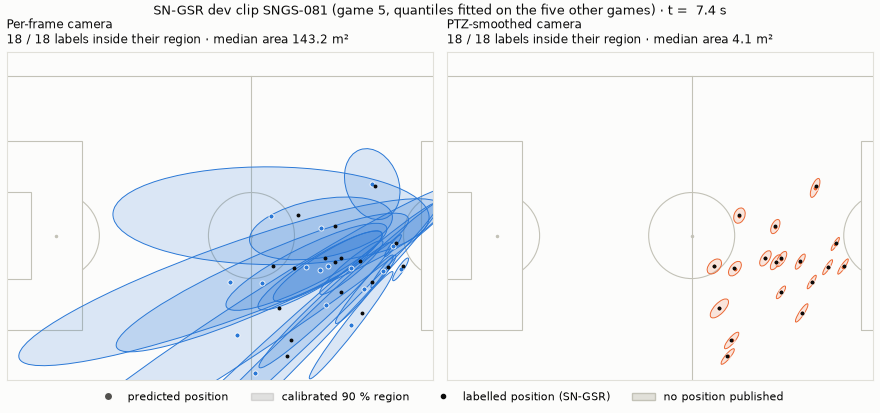
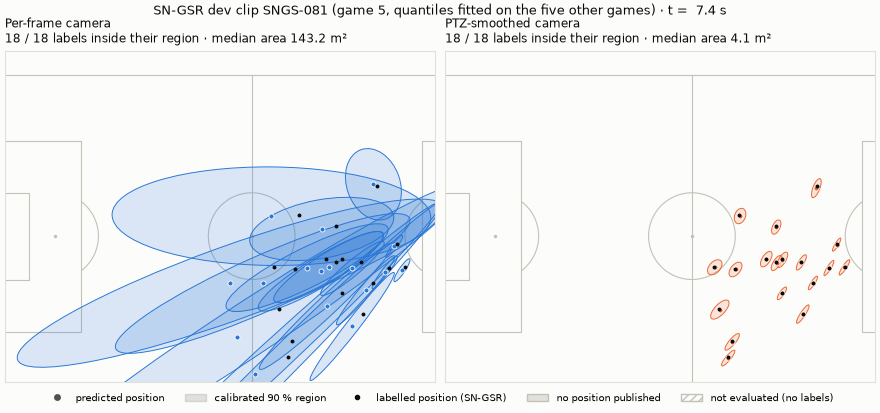
docs(reports): demo without false abstentions, clip-weighted coverage and the new reliability figure
Regenerated from the two dev runs with the fixed scripts. The minimap demo marks its two label-less
frames as not evaluated instead of abstentions (one of them is a published camera 534.9 px off the
annotated lines) and counts 5 and 4 abstentions, 2 frames not evaluated for each camera. The dev figures
report gives coverage with every clip weighted equally next to the pooled coverage (against the line
oracle at 90 %: 91.6 % and 91.3 % against 94.4 %), coverage by clip size, and the per-frame oracle
intervals of m2_logo_dev.md.

Claude-Session: https://claude.ai/code/session_012TVsGDiNG2EdFmFQenqDcG

diff --git a/reports/dev_figures.md b/reports/dev_figures.md
@@ -1,8 +1,10 @@
 # Development figures: coverage at four levels, region size, distance terciles, KPI proxy
 
-`uv run python scripts/make_figures.py --none-run runs/20261031-152537_c3861c7_none --ptz-run runs/20261031-163641_bf28b35_ptz` · commit `97d4689` · per-player tables `runs/20261031-152537_c3861c7_none` (per-frame camera) and `runs/20261031-163641_bf28b35_ptz` (PTZ-smoothed camera), not in git; KPI proxy from `reports/error_process_temporal_dev.json`.
+`uv run python scripts/make_figures.py --none-run runs/20261031-152537_c3861c7_none --ptz-run runs/20261031-163641_bf28b35_ptz` · commit `b69d16b` · per-player tables `runs/20261031-152537_c3861c7_none` (per-frame camera) and `runs/20261031-163641_bf28b35_ptz` (PTZ-smoothed camera), not in git; KPI proxy from `reports/error_process_temporal_dev.json`.
 
-Exploratory numbers on the six SN-GSR dev games (2, 3, 4, 5, 6, 9; frames one in five; ground-truth boxes), not the preregistered test (`docs/preregistration.md`). For every level, each held-out game's conformal quantiles are fitted on the five other games (`eval_dev.logo`: Mondrian bins over metres per pixel at the feet × RANSAC inliers, within each covariance source); intervals resample clips (300 draws).
+Exploratory numbers on the six SN-GSR dev games (2, 3, 4, 5, 6, 9; frames one in five; ground-truth boxes), not the preregistered test (`docs/preregistration.md`). For every level, each held-out game's conformal quantiles are fitted on the five other games (`eval_dev.logo`: Mondrian bins over metres per pixel at the feet × RANSAC inliers, within each covariance source); intervals resample clips (300 draws). Each reference calibrates its own regions: the line-oracle rows are regions fitted on oracle errors, not the label-calibrated regions that `predfoot run` ships (`scripts/fit_conformal.py`).
+
+Coverage is given pooled over the held-out player-frames, as in eval_dev.py, and with every clip weighted equally (the mean of the clips' own coverages), as the grouped quantile weighs its calibration clips.
 
 ## Coverage and median region area at each nominal level
 
@@ -10,24 +12,43 @@ Exploratory numbers on the six SN-GSR dev games (2, 3, 4, 5, 6, 9; frames one in
 
 ![Region area](figures/area.png)
 
-| Reference | Camera | Nominal | Player-frames | Mondrian ellipses [95 % CI] | Median area (m²) | Constant circle [95 % CI] | Area (m²) |
-|---|---|---|---|---|---|---|---|
-| SN-GSR raw labels | per-frame camera | 50% | 254976 | 49.5 % [47.2, 51.8] | 0.66 | 50.4 % [48.3, 52.5] | 1.10 |
-| SN-GSR raw labels | per-frame camera | 80% | 254976 | 80.0 % [77.8, 82.0] | 2.80 | 80.7 % [78.5, 82.9] | 5.81 |
-| SN-GSR raw labels | per-frame camera | 90% | 254976 | 90.4 % [88.8, 91.8] | 6.21 | 90.9 % [89.5, 92.2] | 14.56 |
-| SN-GSR raw labels | per-frame camera | 95% | 254976 | 95.7 % [94.7, 96.6] | 12.15 | 96.0 % [95.2, 96.7] | 32.39 |
-| SN-GSR raw labels | PTZ-smoothed camera | 50% | 252689 | 49.7 % [47.1, 52.2] | 0.44 | 50.5 % [47.8, 52.9] | 0.66 |
-| SN-GSR raw labels | PTZ-smoothed camera | 80% | 252689 | 80.0 % [77.6, 82.0] | 2.21 | 80.4 % [77.9, 82.7] | 3.12 |
-| SN-GSR raw labels | PTZ-smoothed camera | 90% | 252689 | 90.6 % [89.0, 92.1] | 5.39 | 90.5 % [88.7, 92.4] | 7.47 |
-| SN-GSR raw labels | PTZ-smoothed camera | 95% | 252689 | 95.7 % [94.5, 96.8] | 11.73 | 95.8 % [94.6, 96.8] | 15.73 |
-| trusted line oracle | per-frame camera | 50% | 155643 | 54.2 % [51.5, 56.6] | 0.60 | 56.0 % [53.1, 58.9] | 0.89 |
-| trusted line oracle | per-frame camera | 80% | 155643 | 85.7 % [83.4, 87.7] | 2.99 | 85.7 % [83.1, 87.8] | 9.09 |
-| trusted line oracle | per-frame camera | 90% | 155643 | 94.4 % [92.8, 95.8] | 12.58 | 94.1 % [92.5, 95.3] | 57.72 |
-| trusted line oracle | per-frame camera | 95% | 155643 | 97.7 % [96.8, 98.5] | 61.28 | 97.7 % [96.8, 98.4] | 226.07 |
-| trusted line oracle | PTZ-smoothed camera | 50% | 155409 | 56.7 % [52.5, 60.3] | 0.56 | 55.9 % [52.0, 59.6] | 0.55 |
-| trusted line oracle | PTZ-smoothed camera | 80% | 155409 | 87.1 % [84.5, 89.2] | 5.03 | 85.7 % [82.7, 88.1] | 6.17 |
-| trusted line oracle | PTZ-smoothed camera | 90% | 155409 | 94.4 % [92.9, 95.8] | 25.82 | 94.0 % [92.3, 95.2] | 51.59 |
-| trusted line oracle | PTZ-smoothed camera | 95% | 155409 | 97.7 % [96.8, 98.6] | 105.74 | 97.7 % [96.7, 98.4] | 192.23 |
+| Reference | Camera | Nominal | Player-frames | Mondrian ellipses [95 % CI] | Clips weighted equally [95 % CI] | Median area (m²) | Constant circle [95 % CI] | Area (m²) |
+|---|---|---|---|---|---|---|---|---|
+| SN-GSR raw labels | per-frame camera | 50% | 254976 | 49.5 % [47.2, 51.8] | 49.7 % [47.5, 52.3] | 0.66 | 50.4 % [48.3, 52.5] | 1.10 |
+| SN-GSR raw labels | per-frame camera | 80% | 254976 | 80.0 % [77.8, 82.0] | 80.2 % [77.8, 82.6] | 2.80 | 80.7 % [78.5, 82.9] | 5.81 |
+| SN-GSR raw labels | per-frame camera | 90% | 254976 | 90.4 % [88.8, 91.8] | 90.5 % [88.8, 92.0] | 6.21 | 90.9 % [89.5, 92.2] | 14.56 |
+| SN-GSR raw labels | per-frame camera | 95% | 254976 | 95.7 % [94.7, 96.6] | 95.7 % [94.6, 96.6] | 12.15 | 96.0 % [95.2, 96.7] | 32.39 |
+| SN-GSR raw labels | PTZ-smoothed camera | 50% | 252689 | 49.7 % [47.1, 52.2] | 50.1 % [47.6, 52.8] | 0.44 | 50.5 % [47.8, 52.9] | 0.66 |
+| SN-GSR raw labels | PTZ-smoothed camera | 80% | 252689 | 80.0 % [77.6, 82.0] | 80.4 % [78.1, 82.5] | 2.21 | 80.4 % [77.9, 82.7] | 3.12 |
+| SN-GSR raw labels | PTZ-smoothed camera | 90% | 252689 | 90.6 % [89.0, 92.1] | 90.8 % [89.0, 92.2] | 5.39 | 90.5 % [88.7, 92.4] | 7.47 |
+| SN-GSR raw labels | PTZ-smoothed camera | 95% | 252689 | 95.7 % [94.5, 96.8] | 95.8 % [94.7, 96.6] | 11.73 | 95.8 % [94.6, 96.8] | 15.73 |
+| trusted line oracle | per-frame camera | 50% | 155643 | 54.2 % [51.5, 56.6] | 51.6 % [48.4, 54.2] | 0.60 | 56.0 % [53.1, 58.9] | 0.89 |
+| trusted line oracle | per-frame camera | 80% | 155643 | 85.7 % [83.4, 87.7] | 82.3 % [79.3, 85.2] | 2.99 | 85.7 % [83.1, 87.8] | 9.09 |
+| trusted line oracle | per-frame camera | 90% | 155643 | 94.4 % [92.7, 96.0] | 91.6 % [89.1, 94.0] | 12.58 | 94.1 % [92.4, 95.3] | 57.72 |
+| trusted line oracle | per-frame camera | 95% | 155643 | 97.7 % [96.8, 98.5] | 95.8 % [94.0, 97.5] | 61.28 | 97.7 % [96.8, 98.4] | 226.07 |
+| trusted line oracle | PTZ-smoothed camera | 50% | 155409 | 56.7 % [52.5, 60.3] | 52.1 % [48.1, 56.3] | 0.56 | 55.9 % [52.0, 59.6] | 0.55 |
+| trusted line oracle | PTZ-smoothed camera | 80% | 155409 | 87.1 % [84.5, 89.2] | 82.4 % [78.9, 86.1] | 5.03 | 85.7 % [82.7, 88.1] | 6.17 |
+| trusted line oracle | PTZ-smoothed camera | 90% | 155409 | 94.4 % [92.9, 96.0] | 91.3 % [88.5, 94.0] | 25.82 | 94.0 % [92.3, 95.4] | 51.59 |
+| trusted line oracle | PTZ-smoothed camera | 95% | 155409 | 97.7 % [96.8, 98.6] | 95.8 % [93.7, 97.6] | 105.74 | 97.7 % [96.7, 98.4] | 192.23 |
+
+## Coverage by clip size at 90%
+
+Mean coverage of the held-out clips in each tercile of their number of held-out player-frames. Where it rises with clip size, pooling player-frames weighs the better-covered clips more and lifts coverage above the clip-weighted figure. Against the line oracle a clip's player-frames are its trusted ones, frames whose annotated lines fit a homography within 3 px.
+
+| Reference | Camera | Clip size (player-frames) | Clips | Mean clip coverage |
+|---|---|---|---|---|
+| SN-GSR raw labels | per-frame camera | ≤ 2027 | 39 | 90.6 % |
+| SN-GSR raw labels | per-frame camera | 2027-2436 | 38 | 90.6 % |
+| SN-GSR raw labels | per-frame camera | > 2436 | 38 | 90.2 % |
+| SN-GSR raw labels | PTZ-smoothed camera | ≤ 2031 | 39 | 92.1 % |
+| SN-GSR raw labels | PTZ-smoothed camera | 2031-2436 | 38 | 90.4 % |
+| SN-GSR raw labels | PTZ-smoothed camera | > 2436 | 38 | 90.0 % |
+| trusted line oracle | per-frame camera | ≤ 952 | 39 | 84.6 % |
+| trusted line oracle | per-frame camera | 952-1708 | 38 | 93.8 % |
+| trusted line oracle | per-frame camera | > 1708 | 38 | 96.6 % |
+| trusted line oracle | PTZ-smoothed camera | ≤ 952 | 39 | 83.7 % |
+| trusted line oracle | PTZ-smoothed camera | 952-1697 | 38 | 93.3 % |
+| trusted line oracle | PTZ-smoothed camera | > 1697 | 38 | 97.1 % |
 
 ## Coverage by distance at 90%
 
@@ -37,18 +58,18 @@ Terciles of metres per pixel at the feet over the held-out player-frames of each
 
 | Reference | Camera | Tercile (m/px) | Player-frames | Mondrian ellipses [95 % CI] | Constant circle [95 % CI] |
 |---|---|---|---|---|---|
-| SN-GSR raw labels | per-frame camera | < 0.036 | 84992 | 91.1 % [89.3, 92.7] | 90.0 % [88.3, 91.1] |
-| SN-GSR raw labels | per-frame camera | 0.036-0.049 | 84992 | 89.6 % [87.1, 91.7] | 94.1 % [92.8, 95.3] |
+| SN-GSR raw labels | per-frame camera | < 0.036 | 84992 | 91.1 % [89.5, 92.9] | 90.0 % [88.6, 91.2] |
+| SN-GSR raw labels | per-frame camera | 0.036-0.049 | 84992 | 89.6 % [86.9, 91.8] | 94.1 % [92.7, 95.3] |
 | SN-GSR raw labels | per-frame camera | > 0.049 | 84992 | 90.6 % [88.7, 92.3] | 88.6 % [86.2, 90.8] |
-| SN-GSR raw labels | PTZ-smoothed camera | < 0.036 | 84230 | 90.8 % [89.4, 92.1] | 90.6 % [88.9, 92.1] |
-| SN-GSR raw labels | PTZ-smoothed camera | 0.036-0.049 | 84229 | 90.1 % [87.5, 92.1] | 92.6 % [90.5, 94.3] |
-| SN-GSR raw labels | PTZ-smoothed camera | > 0.049 | 84230 | 91.0 % [88.6, 92.7] | 88.4 % [85.2, 91.3] |
-| trusted line oracle | per-frame camera | < 0.037 | 51881 | 94.6 % [92.9, 96.2] | 91.0 % [88.6, 93.2] |
-| trusted line oracle | per-frame camera | 0.037-0.049 | 51881 | 94.7 % [93.0, 96.0] | 95.3 % [93.8, 96.6] |
-| trusted line oracle | per-frame camera | > 0.049 | 51881 | 94.0 % [92.0, 95.6] | 96.0 % [94.5, 97.0] |
-| trusted line oracle | PTZ-smoothed camera | < 0.036 | 51803 | 94.5 % [92.5, 96.2] | 89.9 % [86.9, 92.5] |
-| trusted line oracle | PTZ-smoothed camera | 0.036-0.049 | 51803 | 95.0 % [93.2, 96.3] | 95.0 % [93.4, 96.4] |
-| trusted line oracle | PTZ-smoothed camera | > 0.049 | 51803 | 93.8 % [91.9, 95.4] | 97.0 % [95.5, 98.0] |
+| SN-GSR raw labels | PTZ-smoothed camera | < 0.036 | 84230 | 90.8 % [89.3, 92.2] | 90.6 % [89.0, 92.3] |
+| SN-GSR raw labels | PTZ-smoothed camera | 0.036-0.049 | 84229 | 90.1 % [87.5, 92.3] | 92.6 % [90.7, 94.2] |
+| SN-GSR raw labels | PTZ-smoothed camera | > 0.049 | 84230 | 91.0 % [88.8, 92.8] | 88.4 % [85.4, 91.1] |
+| trusted line oracle | per-frame camera | < 0.037 | 51881 | 94.6 % [92.6, 96.1] | 91.0 % [88.7, 93.1] |
+| trusted line oracle | per-frame camera | 0.037-0.049 | 51881 | 94.7 % [92.8, 96.1] | 95.3 % [93.7, 96.6] |
+| trusted line oracle | per-frame camera | > 0.049 | 51881 | 94.0 % [92.0, 95.5] | 96.0 % [94.7, 97.1] |
+| trusted line oracle | PTZ-smoothed camera | < 0.036 | 51803 | 94.5 % [92.3, 96.1] | 89.9 % [87.4, 92.3] |
+| trusted line oracle | PTZ-smoothed camera | 0.036-0.049 | 51803 | 95.0 % [93.0, 96.5] | 95.0 % [93.6, 96.4] |
+| trusted line oracle | PTZ-smoothed camera | > 0.049 | 51803 | 93.8 % [91.9, 95.7] | 97.0 % [95.7, 98.2] |
 
 ## KPI proxy
 
@@ -62,4 +83,4 @@ From `reports/error_process_temporal_dev.json` (`scripts/error_process.py`, the 
 | PTZ-smoothed camera | +2.7% | +6.2% |
 | raw labels (noise floor) | +17.9% | +43.1% |
 
-Notes. Frames are one in five and correlated within a clip: the effective sample is closer to the 115 clips than to the player-frames. Filled frames (raw calibration failed, camera from the smoother) calibrate their own source but are not in these coverages, as in eval_dev.py. The grouped correction targets the level (1 − α)(1 + 1/G) for G calibration clips (about 96 per fold, fewer per Mondrian bin), so coverage slightly above nominal is expected: 96.0 % at the 95 % level for G = 96. The PTZ table keeps each clip smoothed with the label-free noise parameters of its own held-out fold; eval_dev.py fits game g's quantiles on the other games re-smoothed with fold g's parameters (not saved), so here they are fitted on the other games' saved rows, and the smoothed camera's numbers can differ slightly from `reports/m2_temporal_dev.md`.
+Notes. Frames are one in five and correlated within a clip: the effective sample is closer to the 115 clips than to the player-frames. Filled frames (raw calibration failed, camera from the smoother) calibrate their own source but are not in these coverages, as in eval_dev.py. The grouped quantile weighs every calibration clip equally at the level (1 − α)(1 + 1/G) for G calibration clips (about 96 per fold, fewer in some Mondrian bins): with similar clips, a clip's coverage lands about (1 − α)/G above nominal, 90.9 % at the 90 % level and 96.0 % at the 95 % level for G = 96, a little more in bins with fewer clips; the constant circle, one quantile over all calibration clips, shows it. The correction cannot explain more: where the pooled coverage exceeds the clip-weighted one, the weighting does (clip-size table). The PTZ table keeps each clip smoothed with the label-free noise parameters of its own held-out fold; eval_dev.py fits game g's quantiles on the other games re-smoothed with fold g's parameters (not saved), so here they are fitted on the other games' saved rows, and the smoothed camera's numbers can differ slightly from `reports/m2_temporal_dev.md`.

diff --git a/reports/minimap_demo.md b/reports/minimap_demo.md
@@ -1,6 +1,6 @@
 # Minimap demo: per-frame against PTZ-smoothed camera on one dev clip
 
-`uv run python scripts/render_minimap_demo.py --none-run runs/20261031-152537_c3861c7_none --ptz-run runs/20261031-163641_bf28b35_ptz` · commit `97d4689` · writes `minimap_demo.gif` (650 kB, 75 frames at 5 fps) and `minimap_demo.png` (87 kB).
+`uv run python scripts/render_minimap_demo.py --none-run runs/20261031-152537_c3861c7_none --ptz-run runs/20261031-163641_bf28b35_ptz` · commit `e9e9524` · writes `minimap_demo.gif` (705 kB, 75 frames at 5 fps) and `minimap_demo.png` (86 kB).
 
 Exploratory SN-GSR dev data, ground-truth boxes. Each player's 90 % region uses the Mondrian quantile of its bin fitted on the five games other than the clip's (leave one game out). Only pitch coordinates are drawn (ADR-0002).
 
@@ -19,9 +19,11 @@ Exploratory SN-GSR dev data, ground-truth boxes. Each player's 90 % region uses 
 
 **Window 6.6-21.4 s**: the 15 s where the per-frame camera's common-mode error jitters most.
 
-| Camera | Common-mode step RMS (m) | Labelled positions inside their 90 % region | Frames without positions |
-|---|---|---|---|
-| per-frame camera | 0.73 | 96.4% of 990 | 5 of 75 |
-| PTZ-smoothed camera | 0.12 | 93.1% of 1006 | 4 of 75 |
+| Camera | Common-mode step RMS (m) | Labelled positions inside their 90 % region | Frames without positions (grey) | Frames not evaluated (hatched) |
+|---|---|---|---|---|
+| per-frame camera | 0.73 | 96.4% of 990 | 5 of 75 | 2 of 75 |
+| PTZ-smoothed camera | 0.12 | 93.1% of 1006 | 4 of 75 | 2 of 75 |
+
+Not evaluated: the camera published positions, but SN-GSR has no usable position label on the frame, so eval_dev.py wrote no player row and nothing checks them. Line reprojection of those frames (annotated lines to the projected pitch): per-frame camera t = 15.2 s, 534.9 px; t = 19.0 s, 4.8 px. PTZ-smoothed camera t = 15.2 s, 534.9 px; t = 19.0 s, 2.8 px.
 
 **Still** (t = 7.4 s, the frame of the window where the per-frame camera's median error is largest): per-frame camera 18 / 18 inside, median area 143.2 m²; PTZ-smoothed camera 18 / 18 inside, median area 4.1 m².

diff --git a/reports/README.md b/reports/README.md
@@ -9,9 +9,11 @@ Calibration and position uncertainty (SN-GSR dev):
 - `spike_s0.md`: first calibration on real broadcast frames, and why two position references are needed.
 - `m2_logo_dev.md`: per-frame camera: position errors, leave-one-game-out coverage of the 90 % regions.
 - `m2_temporal_dev.md`: the same with the PTZ-smoothed camera, the smoother's diagnostics and the ablations.
-- `dev_figures.md`: coverage at the 50, 80, 90 and 95 % levels, region size against a constant circle,
-  coverage by distance tercile and the KPI proxy, with the figures in `figures/`.
-- `minimap_demo.md`: how the clip and window of `assets/minimap_demo.gif` were chosen.
+- `dev_figures.md`: coverage at the 50, 80, 90 and 95 % levels, pooled over player-frames and with every
+  clip weighted equally, region size against a constant circle, coverage by distance and by clip size, and
+  the KPI proxy, with the figures in `figures/`.
+- `minimap_demo.md`: how the clip and window of `assets/minimap_demo.gif` were chosen, and which frames it
+  leaves unevaluated (no labels).
 - `m3_health_dev.md`: failure detection from calibration-health features.
 
 Error process and KPI budget:
